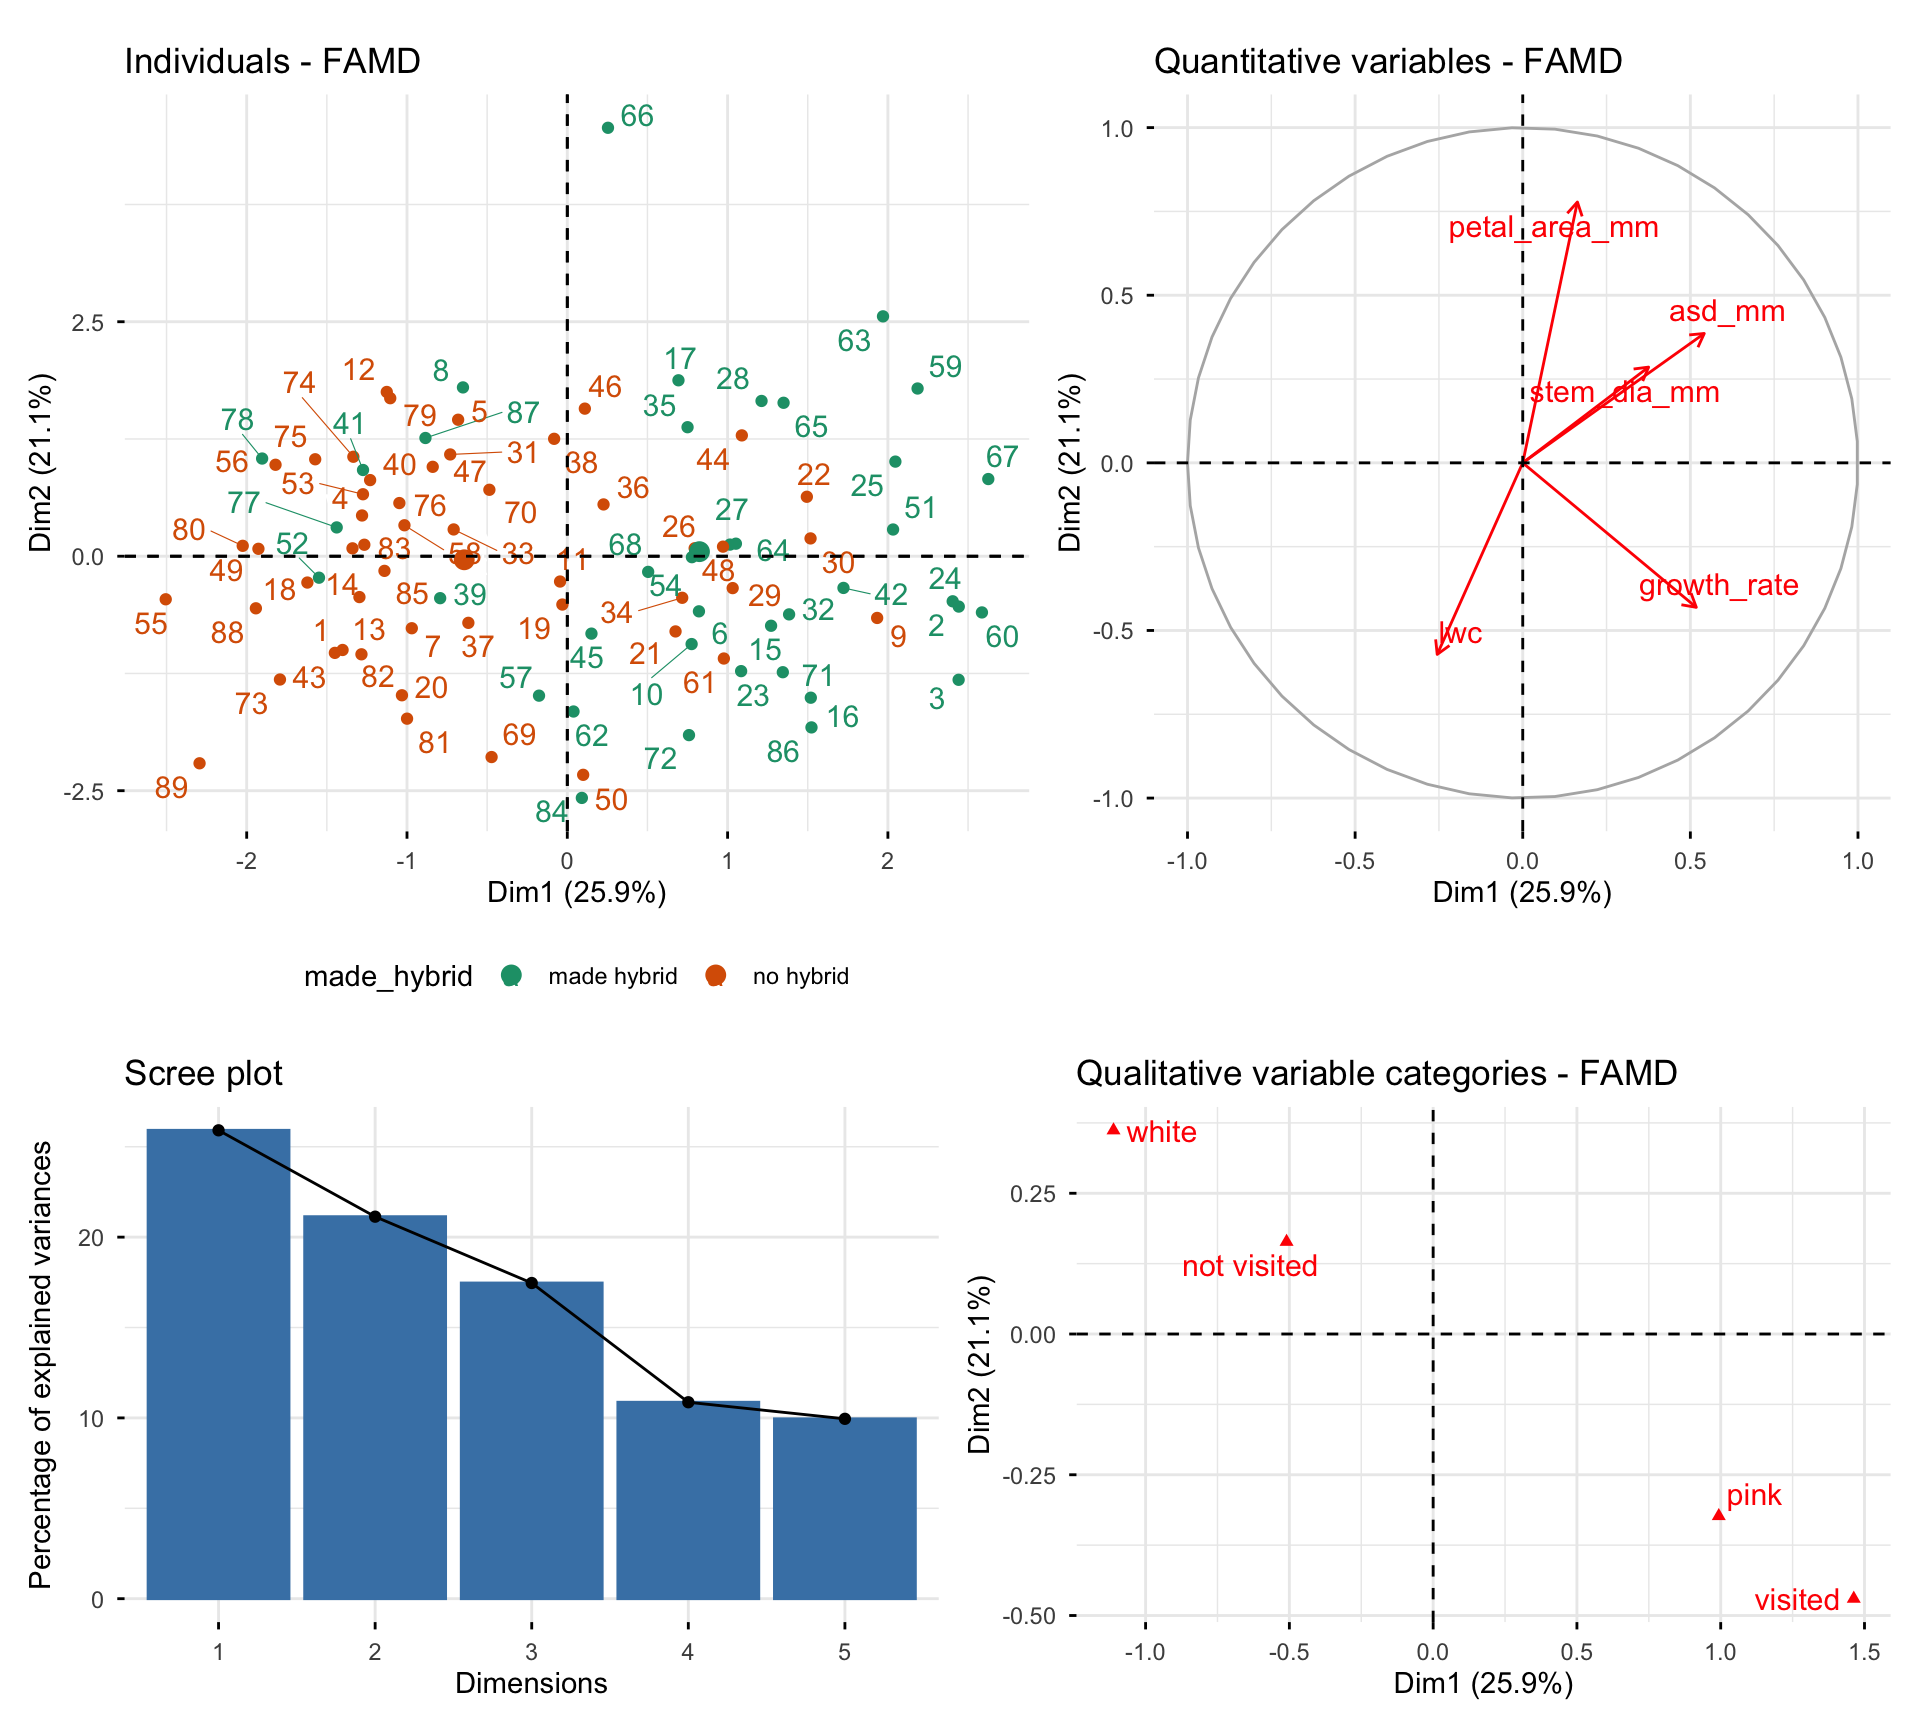
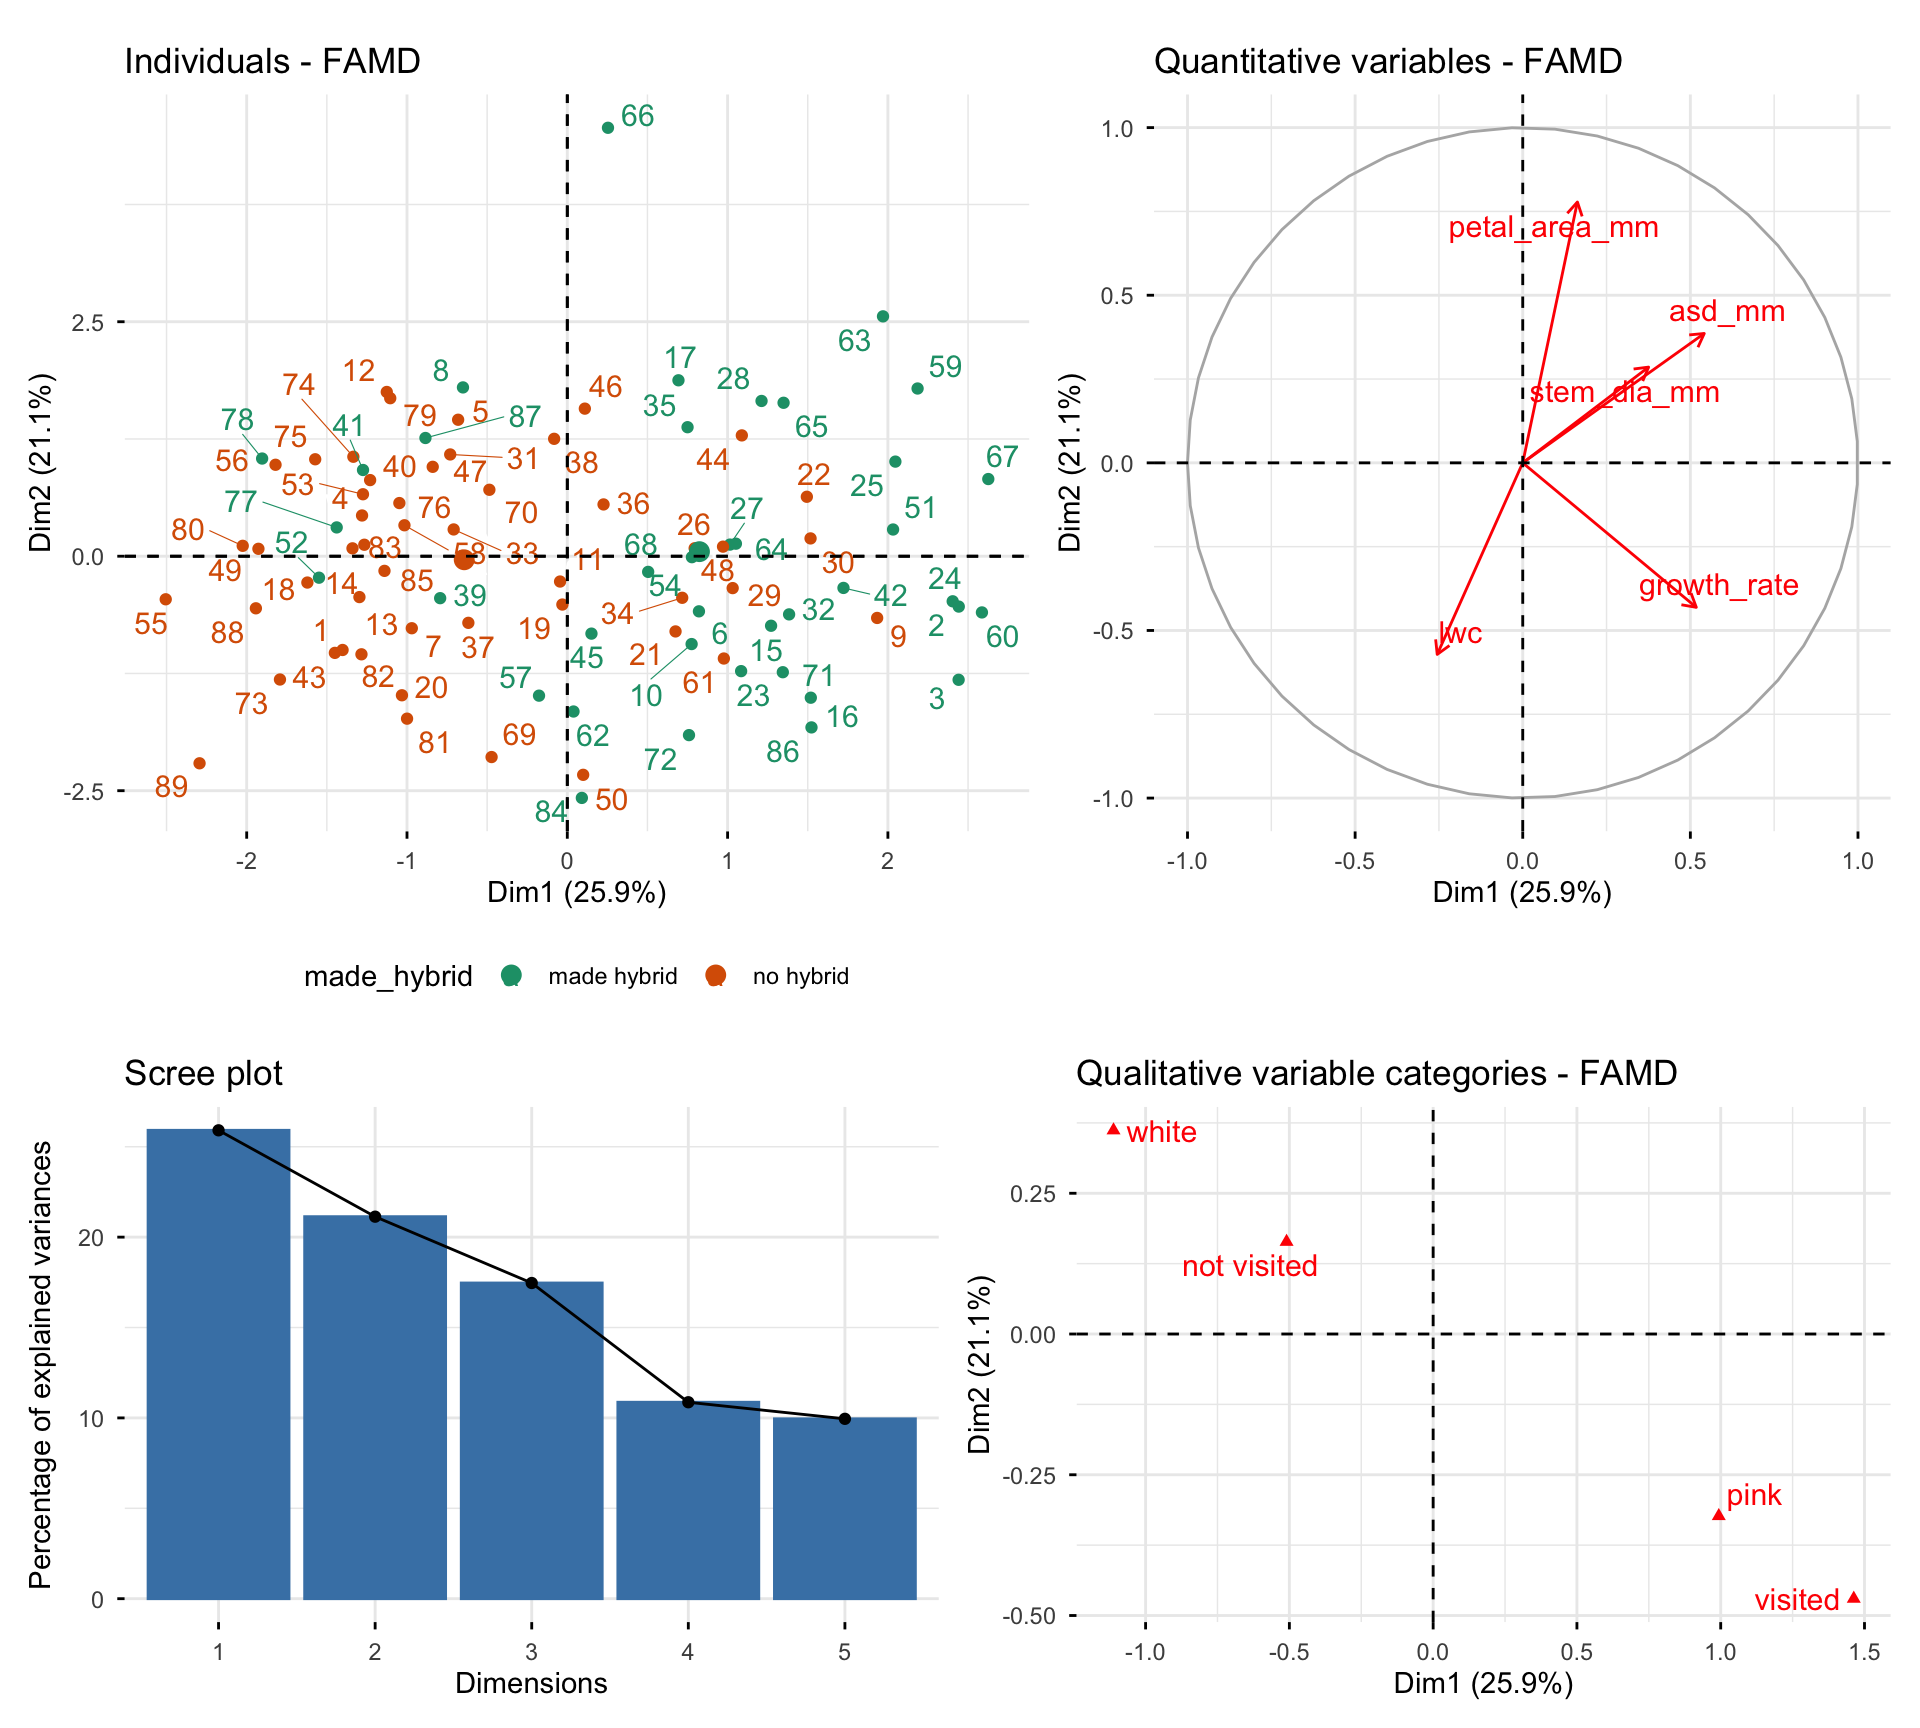
oopsie

diff --git a/docs/book_sections/ordination/pcalternatives.html b/docs/book_sections/ordination/pcalternatives.html
@@ -1000,6 +1000,29 @@ window.Quarto = {
 </li>
       </ul>
   </li>
+        <li class="sidebar-item sidebar-item-section">
+      <div class="sidebar-item-container"> 
+            <a href="../../book_sections/f.html" class="sidebar-item-text sidebar-link">
+ <span class="menu-text">18. F this!</span></a>
+          <a class="sidebar-item-toggle text-start collapsed" data-bs-toggle="collapse" data-bs-target="#quarto-sidebar-section-18" role="navigation" aria-expanded="false" aria-label="Toggle section">
+            <i class="bi bi-chevron-right ms-2"></i>
+          </a> 
+      </div>
+      <ul id="quarto-sidebar-section-18" class="collapse list-unstyled sidebar-section depth1 ">  
+          <li class="sidebar-item">
+  <div class="sidebar-item-container"> 
+  <a href="../../book_sections/f/from_sampling.html" class="sidebar-item-text sidebar-link">
+ <span class="menu-text">• 18. F the ratio of variance</span></a>
+  </div>
+</li>
+          <li class="sidebar-item">
+  <div class="sidebar-item-container"> 
+  <a href="../../book_sections/f/f_calcs.html" class="sidebar-item-text sidebar-link">
+ <span class="menu-text">• 18. Calculations</span></a>
+  </div>
+</li>
+      </ul>
+  </li>
         <li class="sidebar-item">
   <div class="sidebar-item-container"> 
   <a href="../../references.html" class="sidebar-item-text sidebar-link">
@@ -1242,7 +1265,6 @@ Figure&nbsp;3: <strong>NMDS plot of microbial community composition from environ
 <p>The beautiful plots made by UMAP do not always truly highlight important biology. Read <a href="https://journals.plos.org/ploscompbiol/article?id=10.1371/journal.pcbi.1011288">this warning</a> in <span class="citation" data-cites="chari2023">Chari (<a href="../../references.html#ref-chari2023" role="doc-biblioref">2023</a>)</span> before over-interpreting your results.</p>
 <p>More broadly, with complex and non-transparent methods like t-SNE and UMAP it’s always worth looking for additional lines of evidence to ensure that we are not being misled.</p>
 </div>
-<p>Here’s a short, clean <strong>“Common Misinterpretations”</strong> box you can drop into your PCA Alternatives section. It’s in your <strong>tight, student-facing, biologically grounded style</strong>, and meant to fit naturally after method descriptions or before any review questions.</p>
 <div class="fyi">
 <p>Just because you’ve reduced your multidimensional data into two dimensions doesn’t mean everything in the plot has a clear biological meaning. A few common pitfalls:</p>
 <ul>
